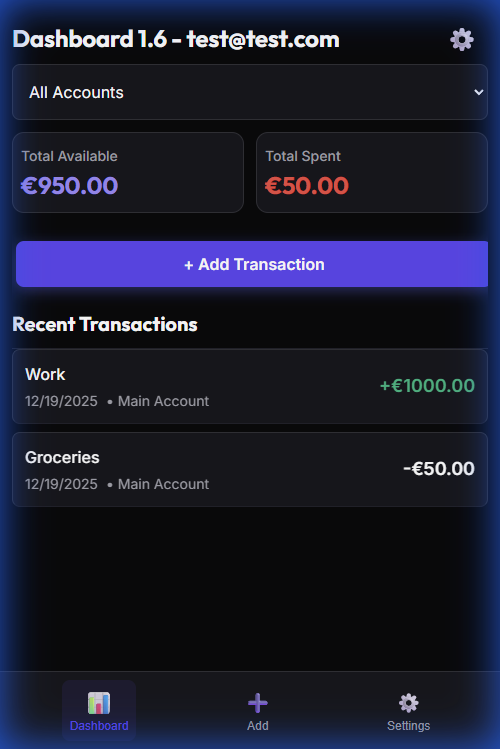
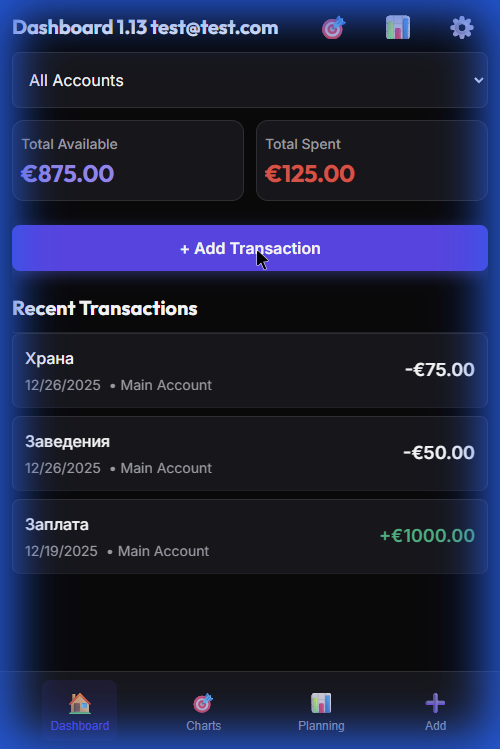
add some hover effects

diff --git a/src/styles/components/forms.css b/src/styles/components/forms.css
@@ -154,14 +154,15 @@ select.input-select:focus {
 
 .mobile-form-input:hover,
 .mobile-form-select:hover {
-  border-color: var(--color-text-muted);
+  border-color: var(--color-primary);
+  box-shadow: 0 0 8px hsl(var(--primary-hue), var(--primary-sat), var(--primary-light), 0.4);
 }
 
 .mobile-form-input:focus,
 .mobile-form-select:focus {
   border-color: var(--color-primary);
   box-shadow: 0 0 0 3px
-    hsl(var(--primary-hue), var(--primary-sat), var(--primary-light), 0.1);
+    hsl(var(--primary-hue), var(--primary-sat), var(--primary-light), 0.15);
   outline: none;
 }
 
@@ -209,28 +210,13 @@ select.input-select:focus {
 .view-add .mobile-form-input[type='date'],
 .view-edit .mobile-form-input[type='date'],
 .view-settings .mobile-form-input[type='date'] {
-  /* Subtle visual connection to form */
-  border-color: var(--color-primary-light);
+  /* Match other inputs' default appearance */
+  border-color: var(--color-border);
   background: var(--color-surface);
   position: relative;
 }
 
-.view-add .mobile-form-input[type='date']:hover,
-.view-edit .mobile-form-input[type='date']:hover,
-.view-settings .mobile-form-input[type='date']:hover {
-  border-color: var(--color-primary);
-  box-shadow: 0 0 0 2px
-    hsl(var(--primary-hue), var(--primary-sat), var(--primary-light), 0.1);
-}
-
-.view-add .mobile-form-input[type='date']:focus,
-.view-edit .mobile-form-input[type='date']:focus,
-.view-settings .mobile-form-input[type='date']:focus {
-  border-color: var(--color-primary);
-  box-shadow: 0 0 0 3px
-    hsl(var(--primary-hue), var(--primary-sat), var(--primary-light), 0.15);
-  outline: none;
-}
+/* Hover and focus are now handled by generic .mobile-form-input styles */
 
 /* Date input label styling */
 .view-add label[for*='date-input'],

diff --git a/src/utils/form-utils/type-toggle.js b/src/utils/form-utils/type-toggle.js
@@ -94,8 +94,10 @@ const createTypeButton = options => {
     const currentTypeValue =
       typeof currentType === 'function' ? currentType() : currentType;
     if (currentTypeValue !== type) {
-      btn.style.border = '1px solid var(--color-text-muted)';
-      btn.style.backgroundColor = 'var(--color-surface-hover)';
+      const activeColor = TYPE_COLORS[type] || TYPE_COLORS.transfer;
+      btn.style.border = `1px solid ${activeColor}`;
+      btn.style.color = activeColor;
+      btn.style.boxShadow = `0 0 8px ${activeColor}40`;
     }
   });
 
@@ -105,6 +107,8 @@ const createTypeButton = options => {
     if (currentTypeValue !== type) {
       btn.style.border = '1px solid var(--color-border)';
       btn.style.backgroundColor = 'transparent';
+      btn.style.color = 'var(--color-text-muted)';
+      btn.style.boxShadow = 'none';
     }
   });
 

diff --git a/src/styles/components/cards.css b/src/styles/components/cards.css
@@ -155,6 +155,10 @@
   align-items: center;
   gap: var(--spacing-md);
 }
+/* Transaction item hover effect - matching dashboard stat cards */
+.transaction-item:hover{
+  background: var(--color-surface-hover);  
+}
 
 /* Transaction item info */
 .transaction-item-info {

diff --git a/README.md b/README.md
@@ -1,6 +1,6 @@
 # BlinkBudget - Fast Expense Tracking
 
-![Icon](public/favicon.png)
+![Icon](public/favicon.png){width=256 height=256}
 
 **Track your expenses in 3 clicks max.** BlinkBudget transforms expense tracking into a swift, almost unconscious habit with beautiful, actionable insights for smarter financial decisions.
 
